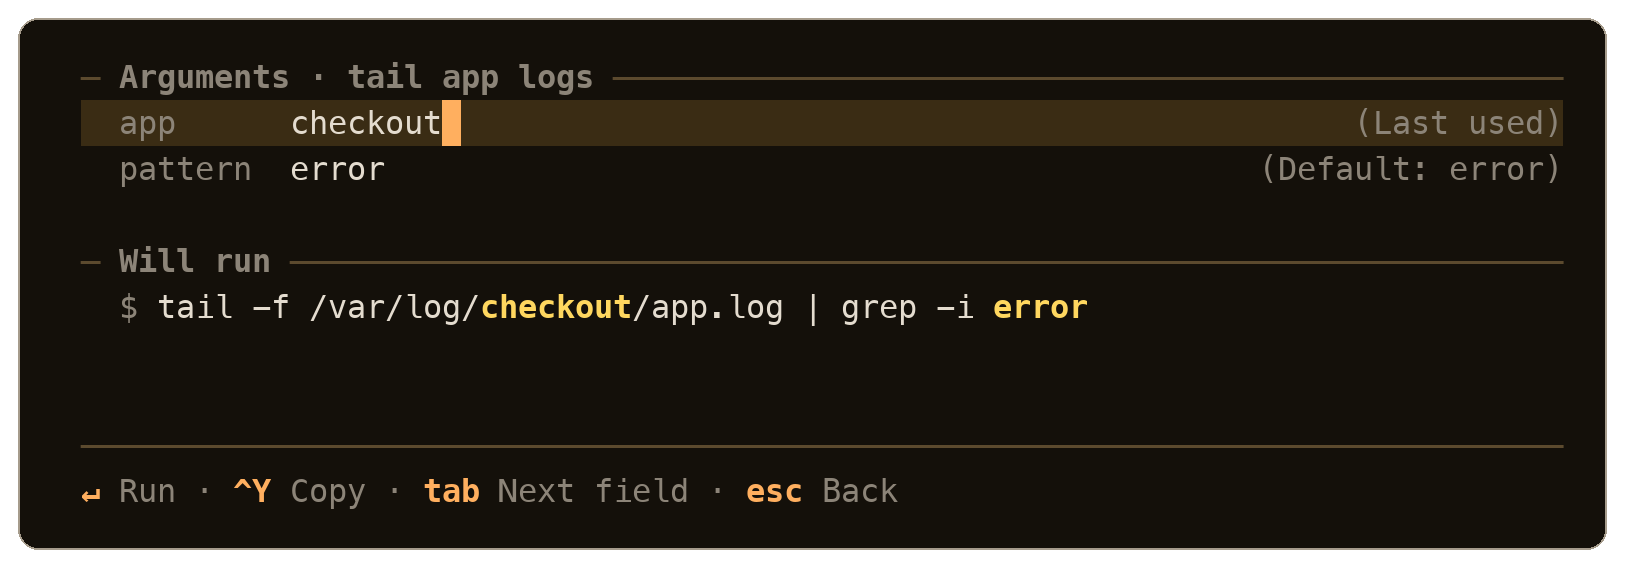
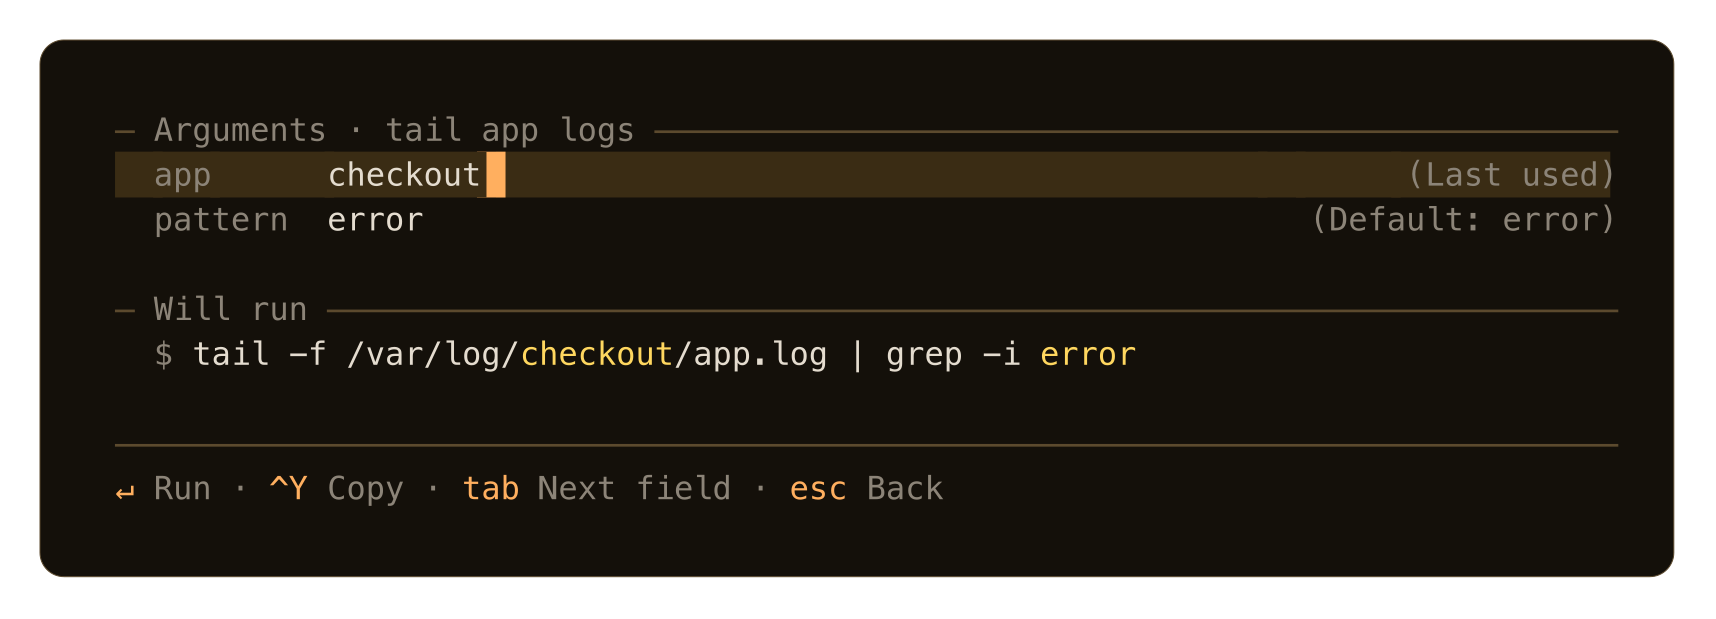
Retake the screenshots, and keep the script that took them
Both images predated the chord footer, so the README showed a key list
potato no longer has. They were also hand-captured, leaving no trace of
how — which is why this commit brings the tooling with them.

scripts/screenshots renders each screen the way the frame goldens do:
build the Model over a fixture library on a fixed clock, press keys, dump
the frame. scripts/screenshots.sh hands those to freeze with the style
pinned, so a retake changes only what the screens changed, and re-running
it is byte-identical.

The one thing the capture has to rewrite is the caret: freeze does not
implement SGR 7, so a reversed run reaches it as a foreground on the
background and the caret — a space — draws as nothing. It is folded into
the explicit pair it stands for on the way out.

Changed region(s): [[0.0, 0.0299, 1.0, 0.9877], [0.4615, 0.838, 0.5538, 0.8979]]

diff --git a/scripts/screenshots/main.go b/scripts/screenshots/main.go
@@ -1,0 +1,185 @@
+// Command screenshots renders the README's screens as ANSI text, for
+// scripts/screenshots.sh to turn into the PNGs in docs/media.
+//
+// The library it draws is a fixture, not whatever happens to be in
+// ~/.potato/commands.json: a screenshot has to be reproducible, and the one in
+// the README should show potato holding a plausible day's worth of commands
+// rather than the author's. The clock is fixed too, so "2h ago" stays "2h ago".
+//
+// It talks to the TUI the way the frame goldens do — build the Model, size it,
+// press keys — because the real binary needs a terminal and would hand its
+// frame to one rather than to a file.
+package main
+
+import (
+	"flag"
+	"fmt"
+	"os"
+	"path/filepath"
+	"regexp"
+	"strconv"
+	"strings"
+	"time"
+
+	tea "charm.land/bubbletea/v2"
+	"github.com/luojiahai/potato/internal/library"
+	"github.com/luojiahai/potato/internal/state"
+	"github.com/luojiahai/potato/internal/tui"
+	"github.com/luojiahai/potato/internal/version"
+)
+
+// now is the fixed clock the fixture's last-used times are relative to.
+var now = time.Date(2026, 8, 1, 10, 0, 0, 0, time.UTC)
+
+func ago(d time.Duration) string { return now.Add(-d).Format(time.RFC3339) }
+
+func text(s string) *string { return &s }
+
+func fixture() (library.Library, state.State) {
+	lib := library.Library{
+		Version: 2,
+		Commands: []library.Command{
+			{
+				ID: "id-deploy", Name: "deploy web",
+				Description: text("Roll out the web tier"),
+				Template:    "ssh {{host=prod-1}} 'cd /srv/web && git pull && systemctl restart web'",
+			},
+			{
+				ID: "id-logs", Name: "tail app logs",
+				Description: text("Follow one app's log, filtered"),
+				Template:    "tail -f /var/log/{{app}}/app.log | grep -i {{pattern=error}}",
+			},
+			{
+				ID: "id-psql", Name: "db shell",
+				Description: text("Open a psql session"),
+				Template:    `psql "postgres://{{user=app}}@{{host=db-1}}:5432/{{db=app}}"`,
+			},
+			{
+				ID: "id-ports", Name: "port hogs",
+				Description: text("Show what is listening"),
+				Template:    "lsof -iTCP -sTCP:LISTEN -P -n",
+			},
+			{
+				ID: "id-sync", Name: "sync build",
+				Description: text("Push a build to a host"),
+				Template:    "rsync -avz --delete --progress ./{{src=dist}}/ {{user=deploy}}@{{host}}:/srv/{{app}}/",
+			},
+			{
+				ID: "id-prune", Name: "prune docker",
+				Description: text("Reclaim disk from docker"),
+				Template:    "docker system prune -af --volumes",
+			},
+			{
+				ID: "id-undo", Name: "undo commit",
+				Description: text("Keep the changes, drop the commit"),
+				Template:    "git reset --soft HEAD~1",
+			},
+		},
+	}
+	// Only some of the library has been used, so the list shows both halves of
+	// the empty-query order: most recent first, then the rest in file order.
+	st := state.State{
+		"id-deploy": {LastUsedAt: ago(2 * time.Hour), Args: map[string]string{"host": "prod-1"}},
+		"id-logs":   {LastUsedAt: ago(20 * time.Hour), Args: map[string]string{"app": "checkout"}},
+		"id-psql":   {LastUsedAt: ago(48 * time.Hour), Args: map[string]string{"user": "app", "host": "db-1", "db": "app"}},
+	}
+	return lib, st
+}
+
+// frame renders one screen: a terminal size, and the keys to press on the way
+// in. Heights are the shortest that hold the screen whole, so neither
+// screenshot carries a band of empty rows.
+type frame struct {
+	name    string
+	rows    int
+	columns int
+	keys    []string
+}
+
+func render(f frame, versionLabel string) string {
+	version.Version = versionLabel
+	lib, st := fixture()
+	m := tui.New(tui.Deps{
+		Library:     lib,
+		State:       st,
+		SaveLibrary: func(library.Library) error { return nil },
+		SaveState:   func(state.State) error { return nil },
+		Copy:        func(string) {},
+		Now:         func() time.Time { return now },
+	})
+	m.SetSize(f.columns, f.rows)
+	m.Init()
+	for _, key := range f.keys {
+		switch key {
+		case "enter":
+			m.Update(tea.KeyPressMsg{Code: tea.KeyEnter})
+		default:
+			for _, r := range key {
+				m.Update(tea.KeyPressMsg{Code: r, Text: string(r)})
+			}
+		}
+	}
+	return m.View().Content
+}
+
+// reverseRun matches a run potato paints by swapping a foreground into the
+// background — which, in the frame, is only ever the caret (see caretStyle).
+var reverseRun = regexp.MustCompile(`\x1b\[7;38;2;(\d+;\d+;\d+)m`)
+
+// unreverse spells the caret out as the pair of colours it stands for.
+//
+// freeze does not implement SGR 7. A reversed run reaches it as a plain
+// foreground, so the caret — a space — comes out as nothing at all, and the
+// screenshot loses the one mark that says the search field has the keyboard.
+// The terminal is the other half of the swap, so the glyph takes the
+// background the image is being drawn on.
+func unreverse(frame, background string) (string, error) {
+	hex := strings.TrimPrefix(background, "#")
+	if len(hex) != 6 {
+		return "", fmt.Errorf("background %q is not a #rrggbb colour", background)
+	}
+	channels := make([]string, 3)
+	for i := range channels {
+		v, err := strconv.ParseUint(hex[i*2:i*2+2], 16, 8)
+		if err != nil {
+			return "", fmt.Errorf("background %q is not a #rrggbb colour", background)
+		}
+		channels[i] = strconv.FormatUint(v, 10)
+	}
+	ink := strings.Join(channels, ";")
+	// ${1}, not $1: the group is followed by the sequence's own "m", and Go
+	// would read the two together as a group named "1m".
+	return reverseRun.ReplaceAllString(frame, "\x1b[38;2;"+ink+";48;2;${1}m"), nil
+}
+
+func main() {
+	out := flag.String("out", "", "directory to write the ANSI dumps to")
+	label := flag.String("version", "dev", "version to draw on the header rule")
+	background := flag.String("background", "#000000", "the colour the frame will be drawn on")
+	flag.Parse()
+	if *out == "" {
+		fmt.Fprintln(os.Stderr, "screenshots: -out is required")
+		os.Exit(1)
+	}
+
+	frames := []frame{
+		// The list, on a terminal tall enough for the whole library and the
+		// detail strip under it.
+		{name: "list", rows: 20, columns: 80},
+		// The arg screen, reached the way a user reaches it: type until the
+		// command it belongs to is the selection, then Enter.
+		{name: "arguments", rows: 10, columns: 80, keys: []string{"app logs", "enter"}},
+	}
+	for _, f := range frames {
+		frame, err := unreverse(render(f, *label), *background)
+		if err != nil {
+			fmt.Fprintf(os.Stderr, "screenshots: %s\n", err)
+			os.Exit(1)
+		}
+		path := filepath.Join(*out, f.name+".ansi")
+		if err := os.WriteFile(path, []byte(frame), 0o644); err != nil {
+			fmt.Fprintf(os.Stderr, "screenshots: %s\n", err)
+			os.Exit(1)
+		}
+	}
+}

diff --git a/README.md b/README.md
@@ -86,6 +86,7 @@ go run ./cmd/potato     # run the TUI from source
 go test ./...           # test suite
 go vet ./... && gofmt -l .
 bash scripts/build.sh 1.0.0   # compile all four release targets and SHA256SUMS
+bash scripts/screenshots.sh   # retake the screenshots above
 ```
 
 Run from source and Enter prints the selection rather than pre-filling your prompt. The pre-fill lives in the shell wrapper that the installer generates, and no child process can write to its parent's prompt. To exercise the real hand-off, paste this into your zsh:
@@ -100,4 +101,4 @@ pdev() {
 }
 ```
 
-Screen layouts are pinned by the golden frames in `testdata/frames`, and the generated shell glue by `testdata/init`. Regenerate the frames with `go test ./internal/tui -update-frames` after a deliberate visual change, then read the diff. To try a real install without touching your own `~/.potato`, point `POTATO_INSTALL` at a throwaway directory; `internal/shell` documents the rest.
+Screen layouts are pinned by the golden frames in `testdata/frames`, and the generated shell glue by `testdata/init`. Regenerate the frames with `go test ./internal/tui -update-frames` after a deliberate visual change, then read the diff. The two screenshots come from the same renderer: `scripts/screenshots.sh` draws a fixture library on a fixed clock and hands the frames to [freeze](https://github.com/charmbracelet/freeze) (`go install github.com/charmbracelet/freeze@latest`), so retaking them changes only what the screens changed. To try a real install without touching your own `~/.potato`, point `POTATO_INSTALL` at a throwaway directory; `internal/shell` documents the rest.
